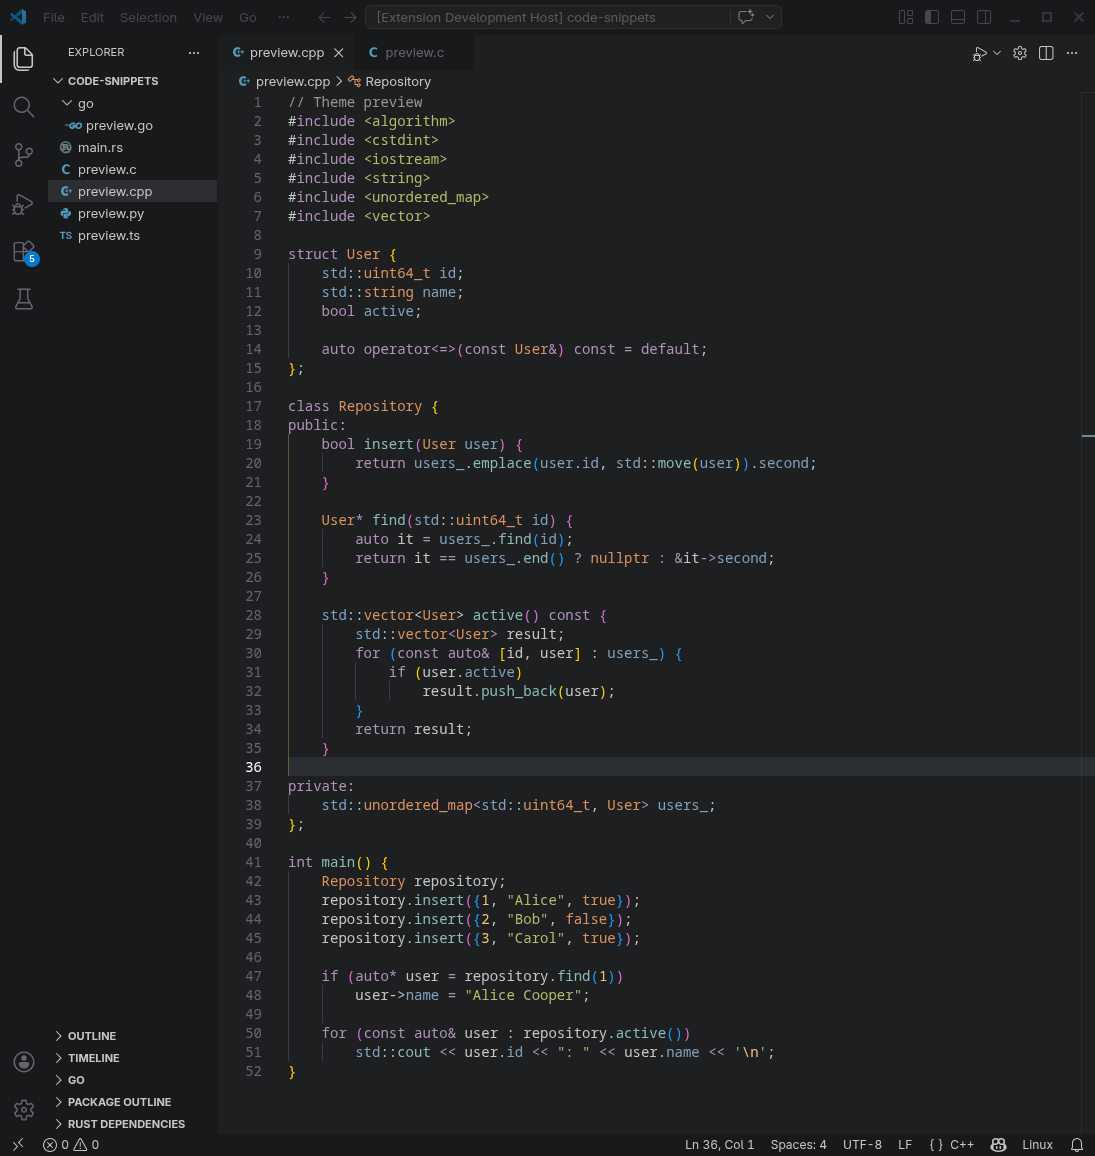
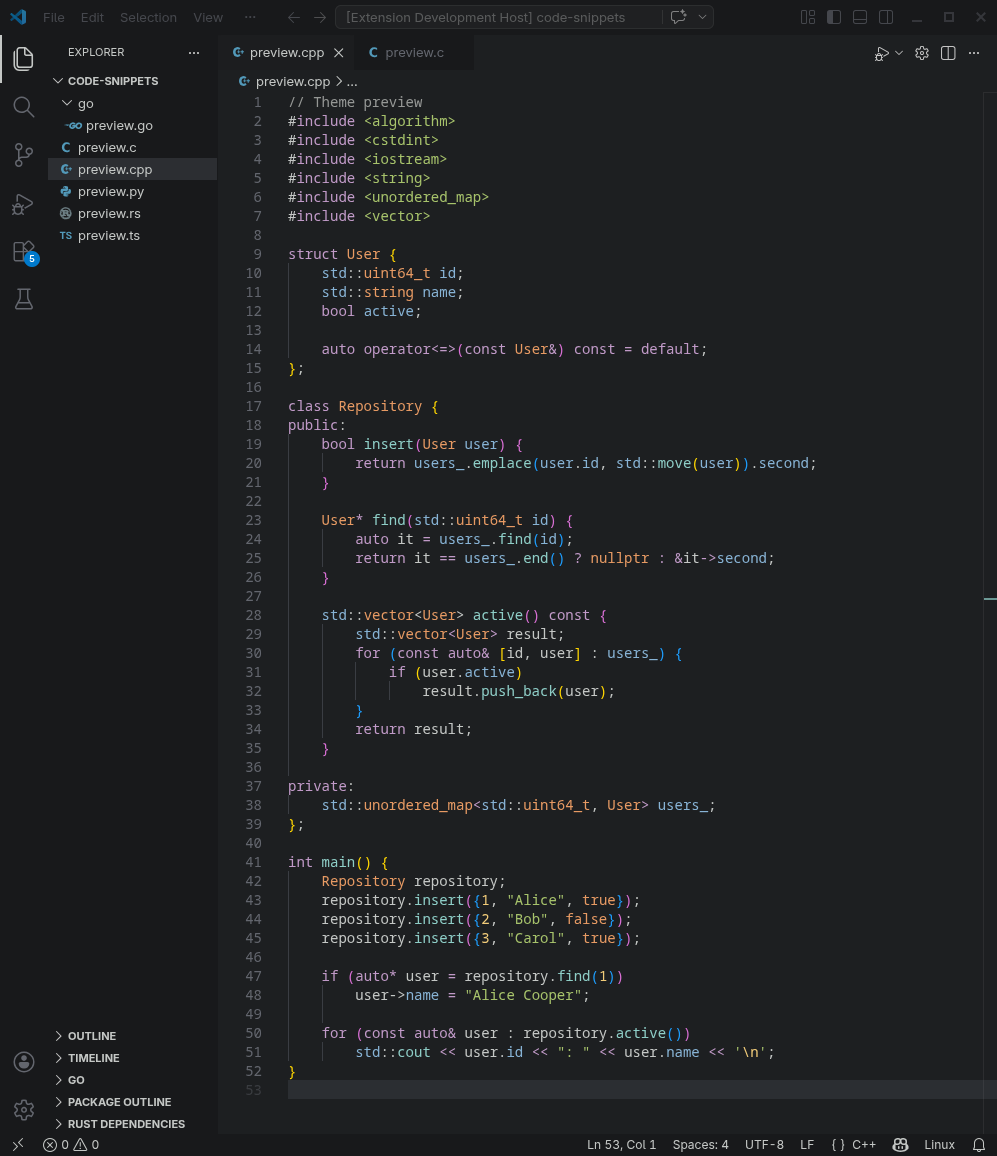
Update screenshots

diff --git a/assets/code-snippets/preview.rs b/assets/code-snippets/preview.rs
@@ -1,0 +1,26 @@
+// Theme preview
+
+use rand::Rng;
+use std::cmp::Ordering;
+use std::io;
+
+fn main() {
+    println!("Guess the number!");
+
+    let secret_number = rand::thread_rng().gen_range(1..=100);
+
+    loop {
+        println!("Please input your guess.");
+
+        let mut guess = String::new();
+
+        io::stdin()
+            .read_line(&mut guess)
+            .expect("Failed to read line");
+
+        let guess: u32 = match guess.trim().parse() {
+            Ok(num) => num,
+            Err(_) => continue,
+        }
+    }
+}
